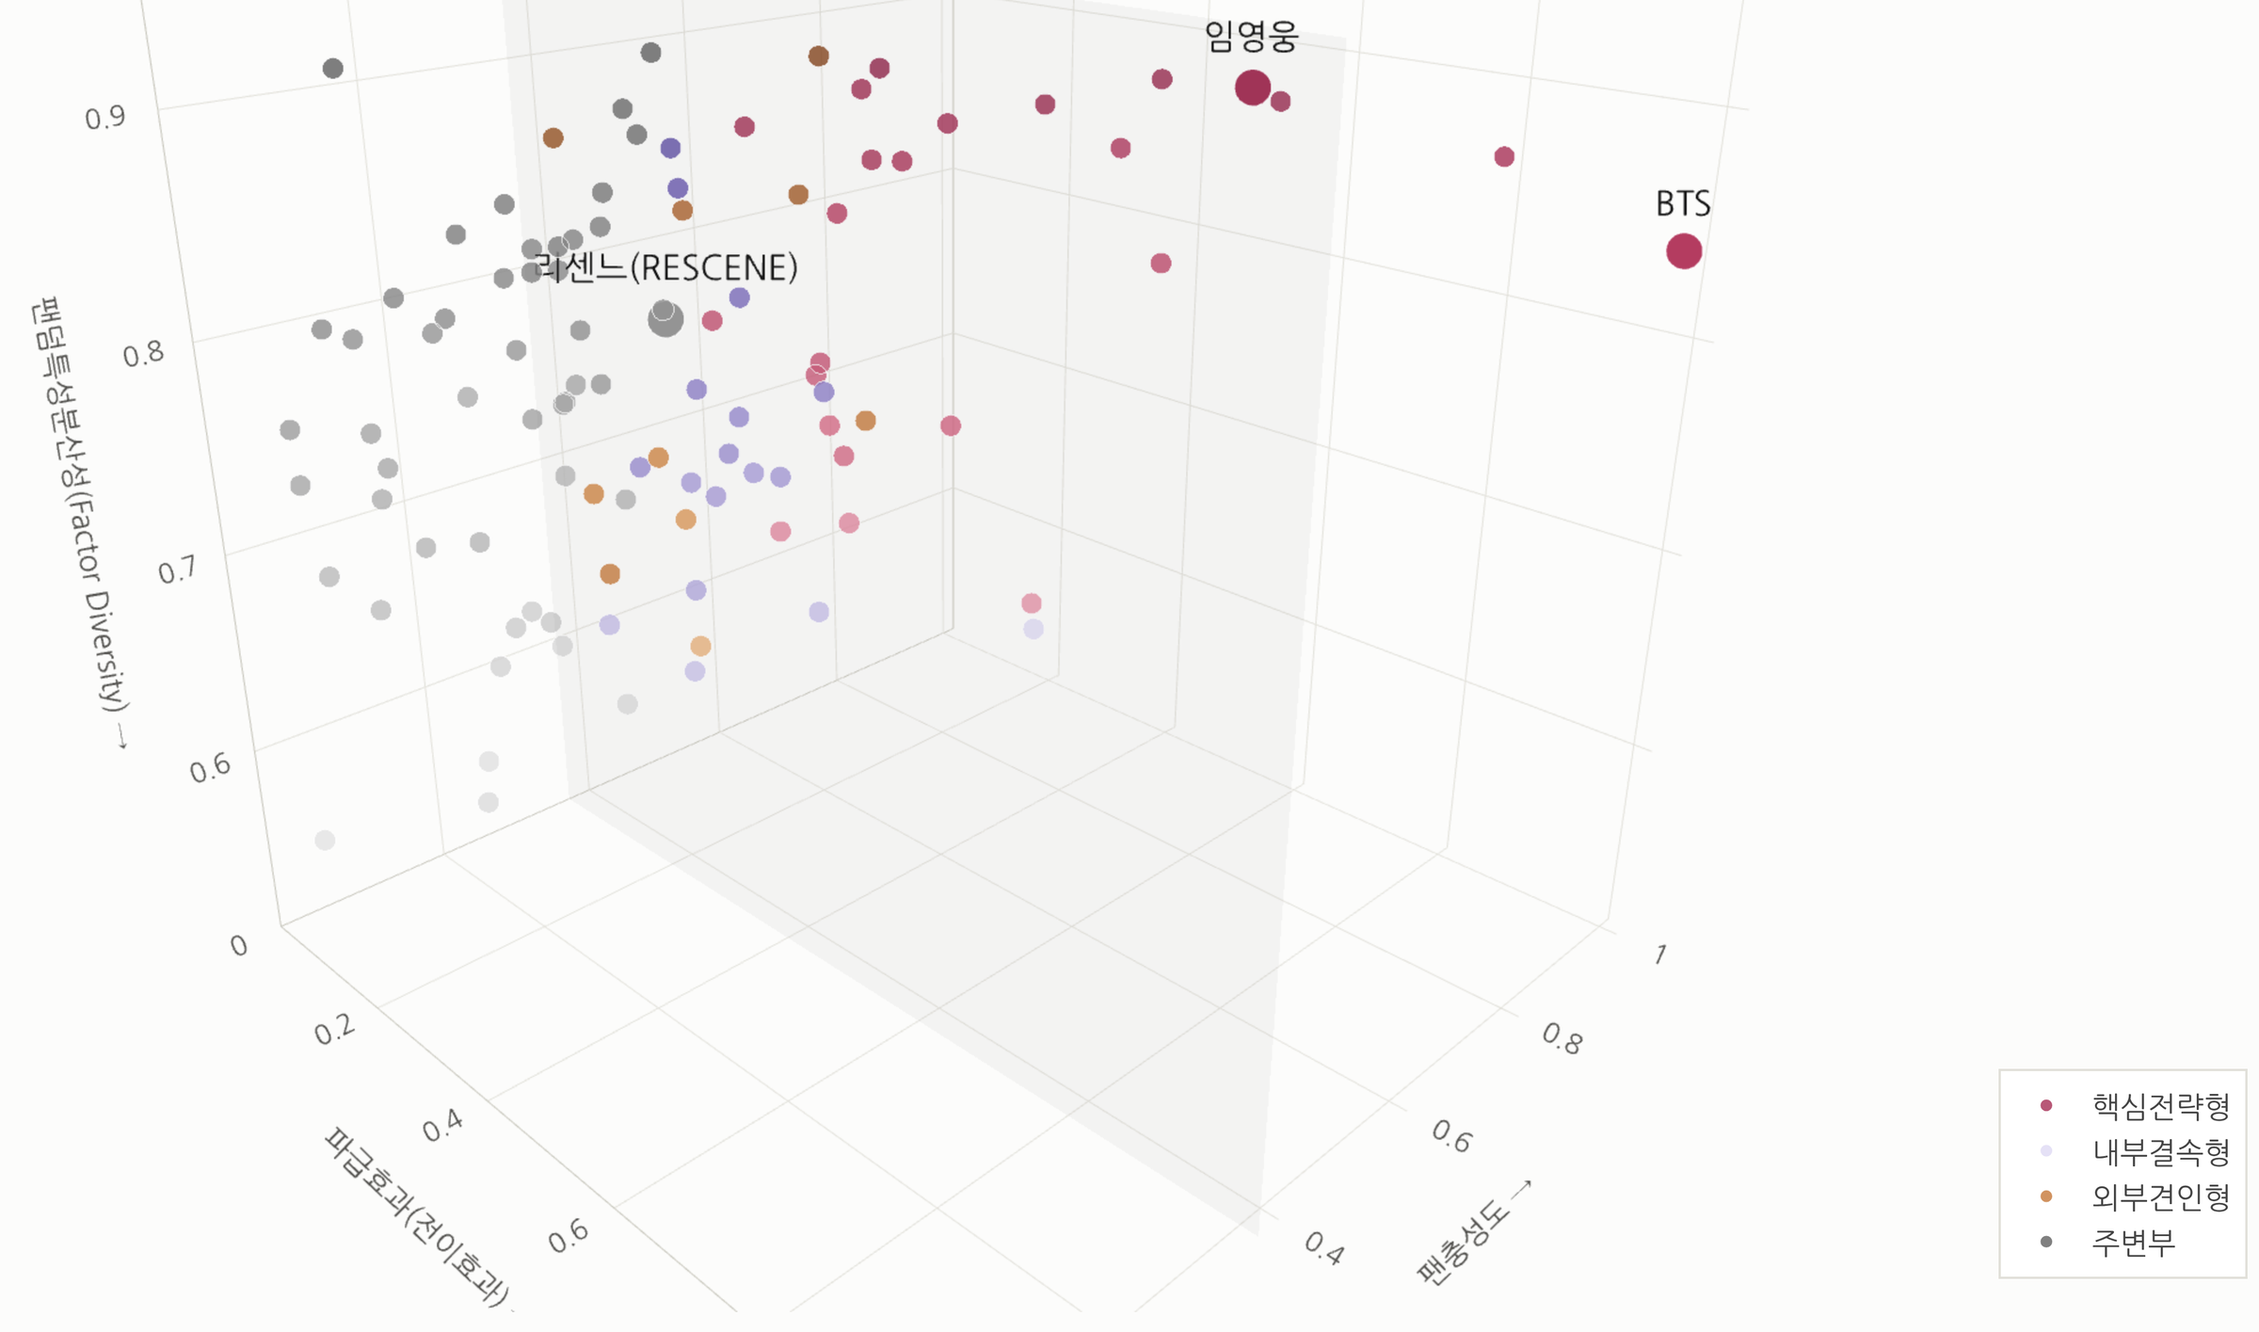
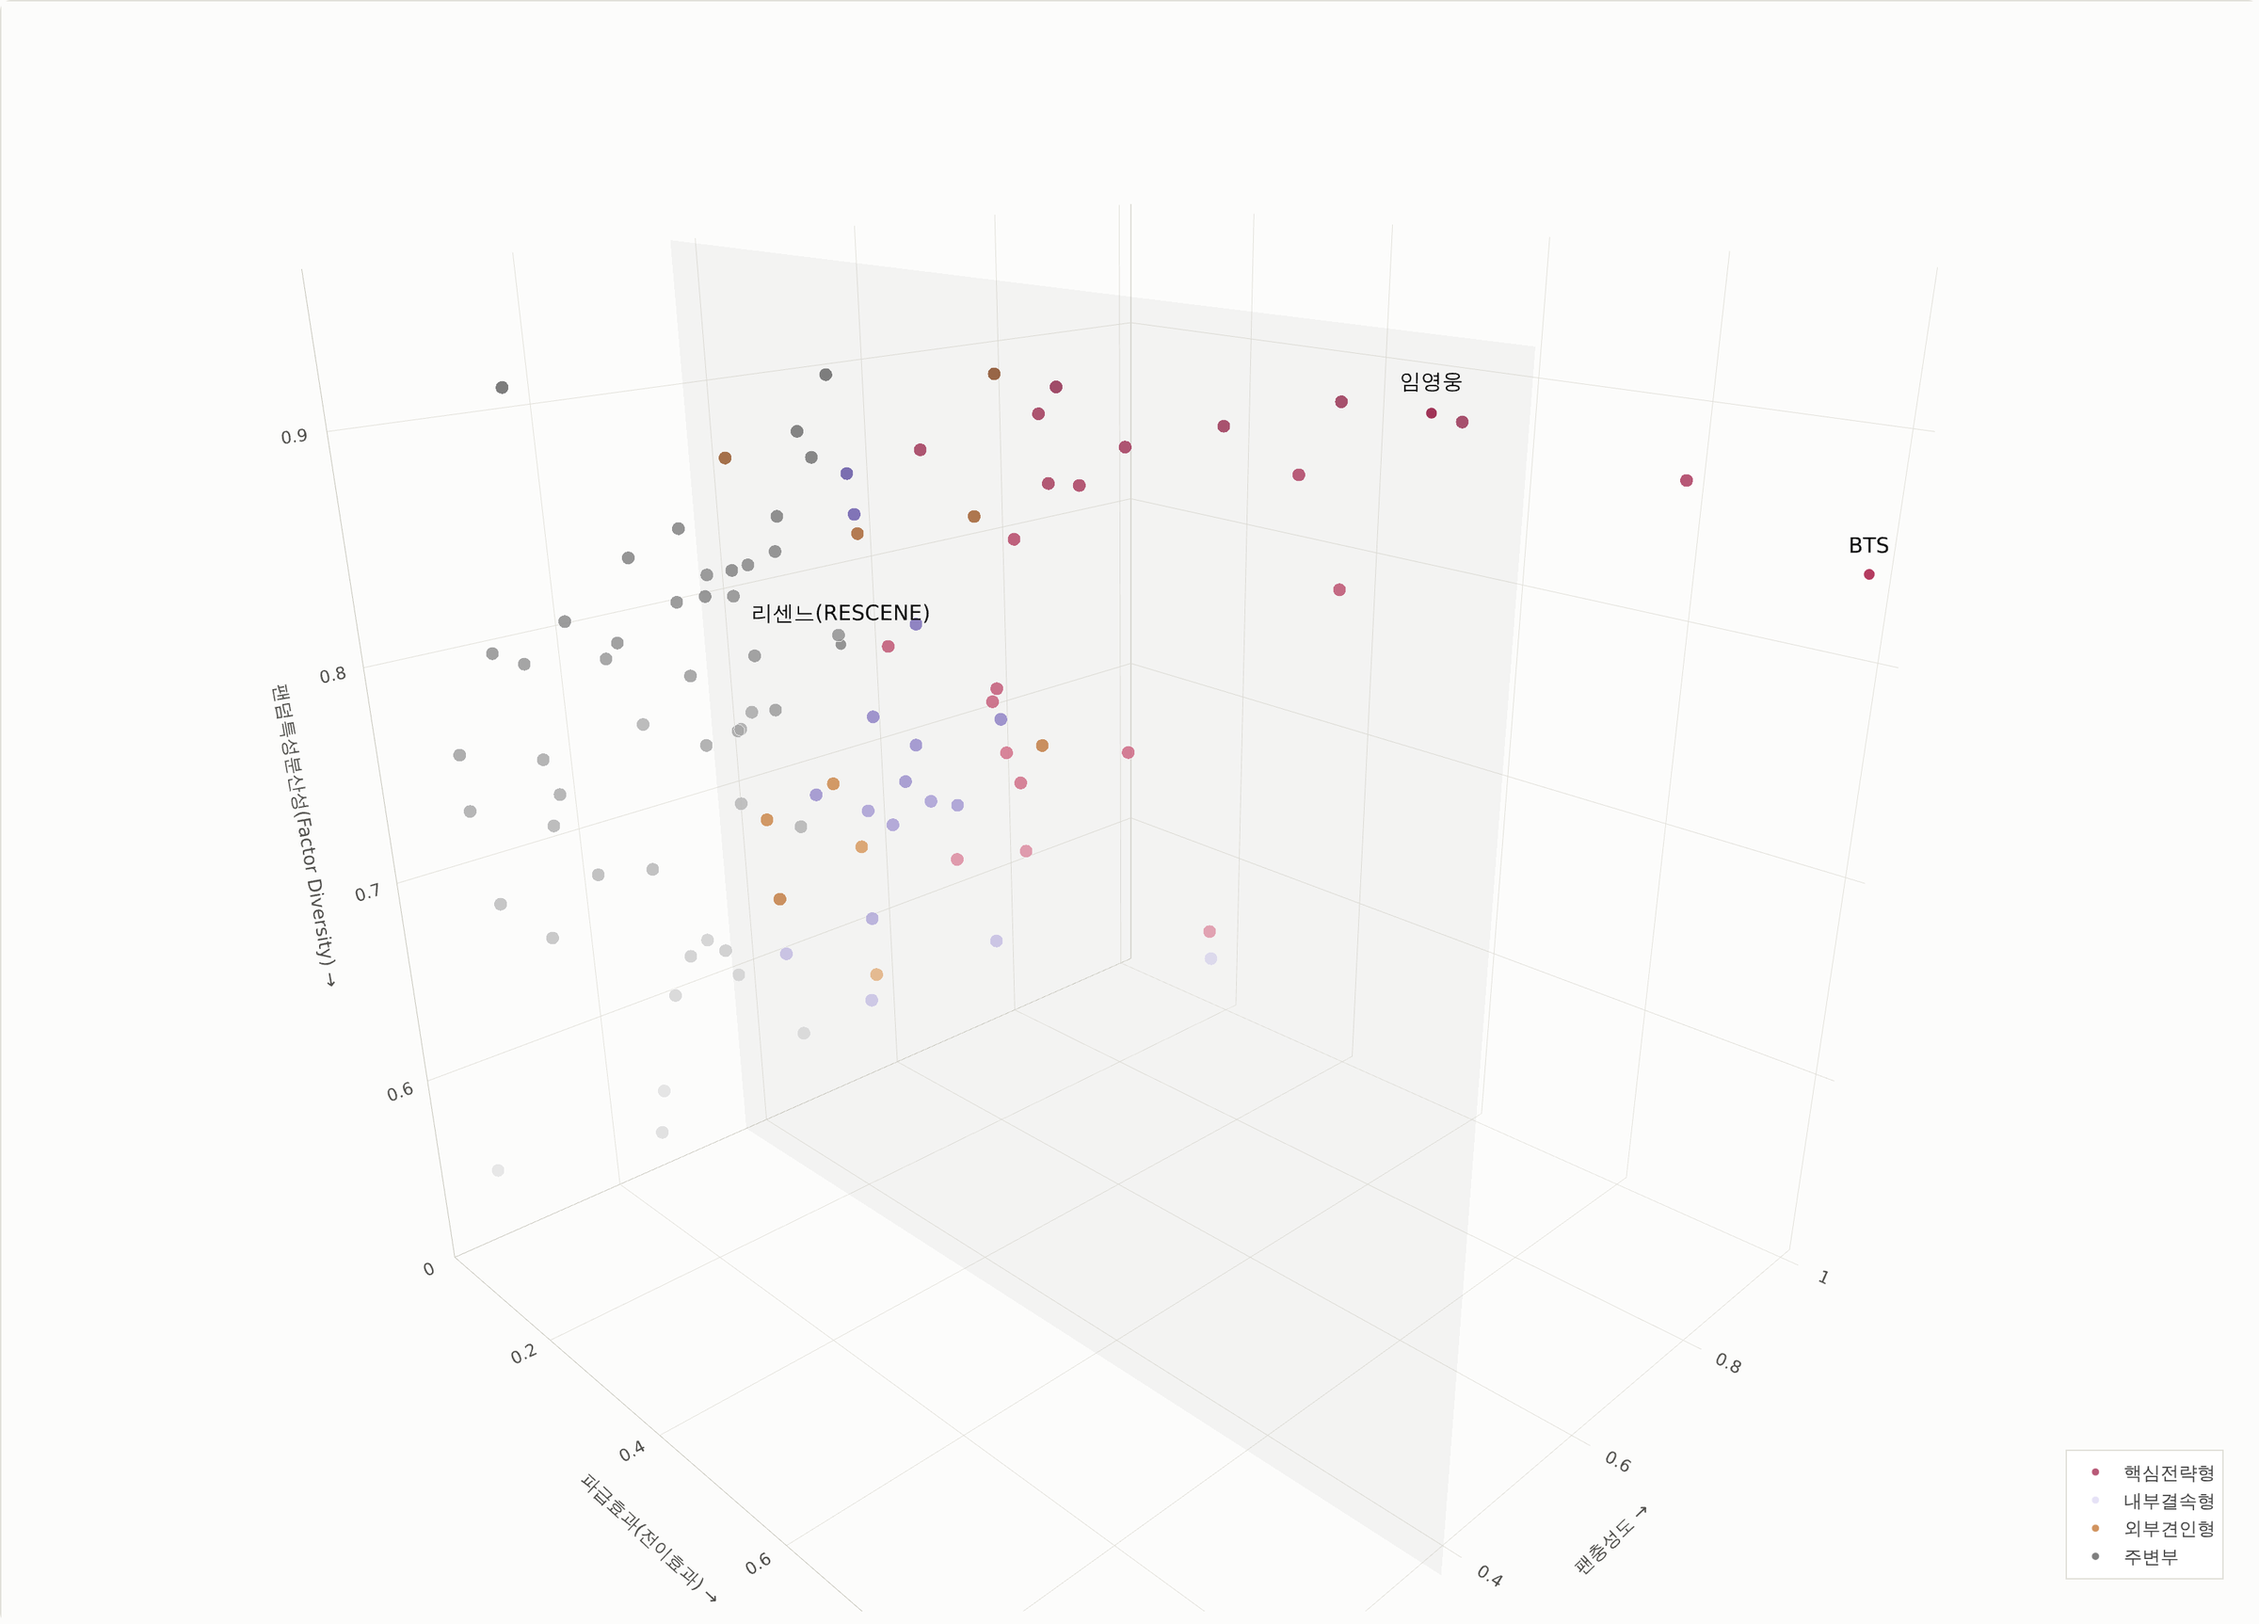
README 3D 포지셔닝 맵 그림을 HTML 기본 카메라 구도 캡처(1번 후보)로 교체
Claude-Session: https://claude.ai/code/session_01VWuqhk8UFpTen2BecLssSX

diff --git a/README.md b/README.md
@@ -63,7 +63,7 @@ flowchart LR
 
 ![3D 포지셔닝 맵](assets/readme/fig02_3d_positioning_map.png)
 
-*그림 2. 100개 팬덤 3D 포지셔닝 맵 — X 파급효과 × Y 팬충성도 × Z 팬 요인 다양성. Z축은 영향력의 크기가 아니라 구조(화제가 여러 경로에 고르게 분포하는지)를 잰다.*
+*그림 2. 100개 팬덤 3D 포지셔닝 맵 — X 파급효과 × Y 팬충성도 × Z 팬 요인 다양성. `3D_포지셔닝맵_국내100팬덤.html`의 기본 카메라 구도를 그대로 캡처한 것으로, 점 색은 4구획(핵심전략형·내부결속형·외부견인형·주변부), 반투명 면은 표본 평균 기준선이며 BTS·임영웅·리센느를 강조했다. Z축은 영향력의 크기가 아니라 구조(화제가 여러 경로에 고르게 분포하는지)를 잰다. HTML을 열면 회전·필터·버블 크기 전환이 가능하다.*
 
 | 검정 | 결과 | 해석 |
 |---|---|---|
